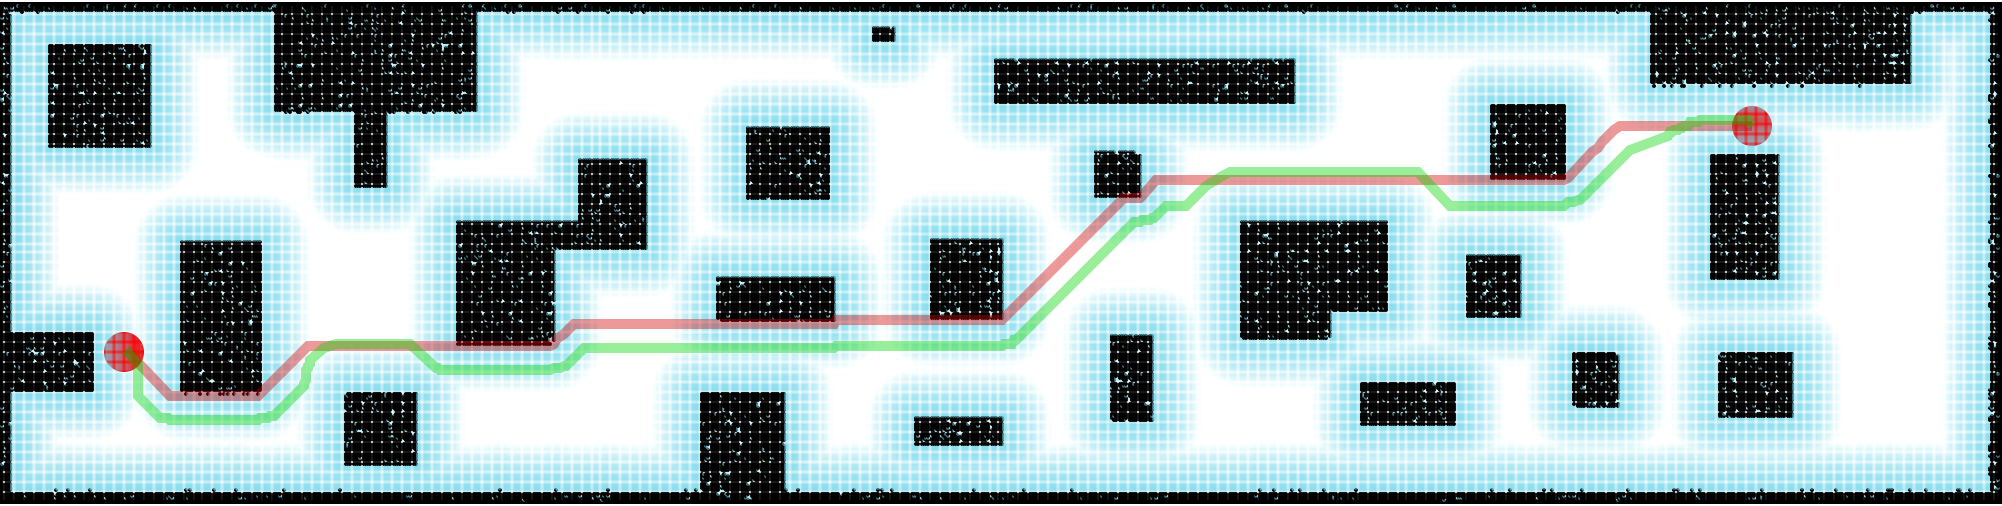
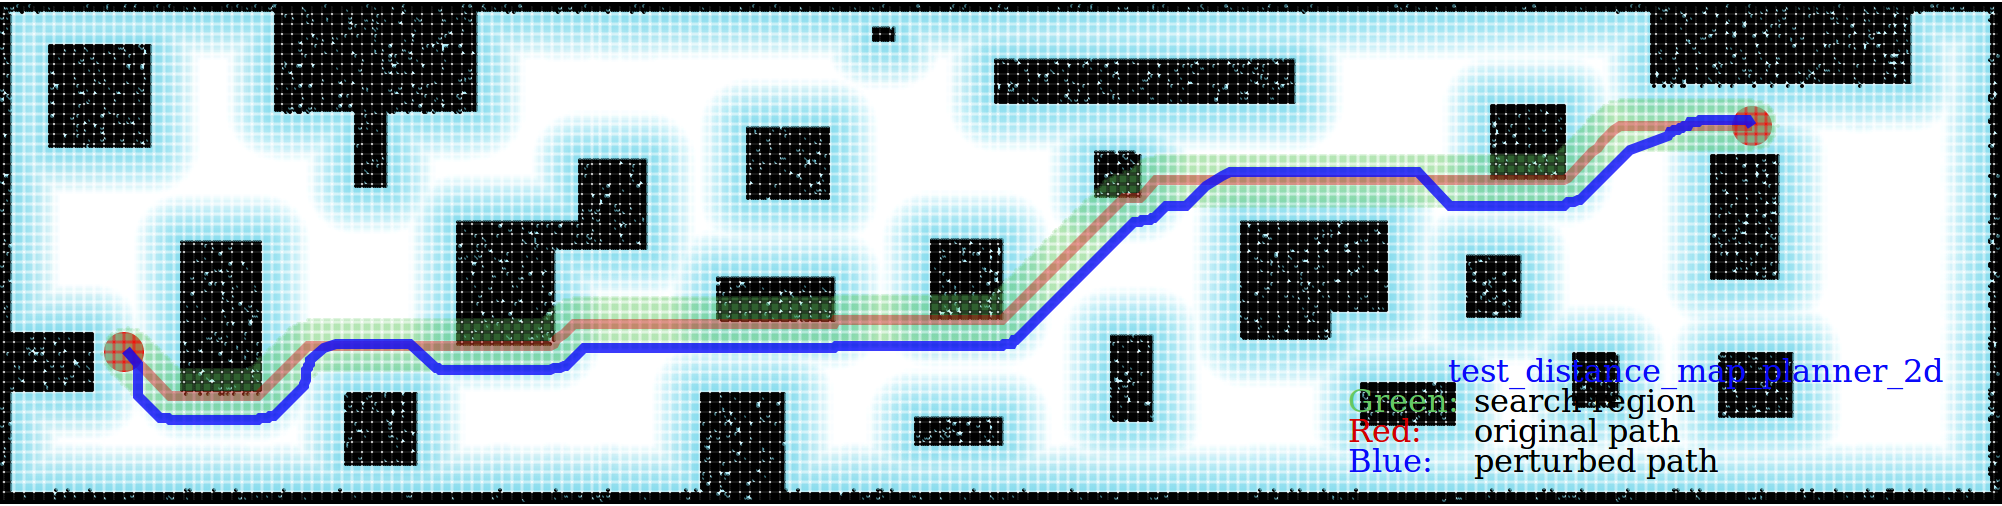
update doxygen

Changed region(s): [[0.031, 0.1779, 0.8981, 0.8597], [0.6503, 0.7115, 0.991, 0.9486]]

diff --git a/docs/index.html b/docs/index.html
@@ -108,7 +108,7 @@ Visualization</div></div>
 <h5>Mapping Example</h5>
 <p>To generate map in <code>yaml</code> format which can be loaded directly in the test node, a simple executable file <a href="https://github.com/sikang/jps3d/blob/master/test/create_map.cpp"><code>test/create_map.cpp</code></a> is used. User can easily change the location of blocks in the source code.</p>
 <h2>DMP Usage</h2>
-<p>As mentioned before, <code><a class="el" href="classDMPlanner.html" title="Abstract base for planning. ">DMPlanner</a></code> stands for distance map planner which utilizes the artificial potential field to find a safer local path around a given path for the robot to navigate. The key feature of this planner is its ability to push the path away from obstacles as much as possible. An example is given in the following figure <a href="https://github.com/sikang/jps3d/blob/master/data/example_dmp.png">example_dmp.png</a>, where red path is from <code>JPS</code> which is always attached to obstacles and green path is derived from <code>DMP</code> which is much safer.</p>
+<p>As mentioned before, <code><a class="el" href="classDMPlanner.html" title="Abstract base for planning. ">DMPlanner</a></code> stands for distance map planner which utilizes the artificial potential field to find a safer local path around a given path for the robot to navigate. The key feature of this planner is its ability to push the path away from obstacles as much as possible. An example is given in the following figure <a href="https://github.com/sikang/jps3d/blob/master/data/example_dmp.png">example_dmp.png</a>, where red path comes from <code>JPS</code> which is always attached to obstacles and blue path is derived from <code>DMP</code> which is much safer.</p>
 <div class="image">
 <img src="example_dmp.png" alt="example_dmp.png"/>
 <div class="caption">
